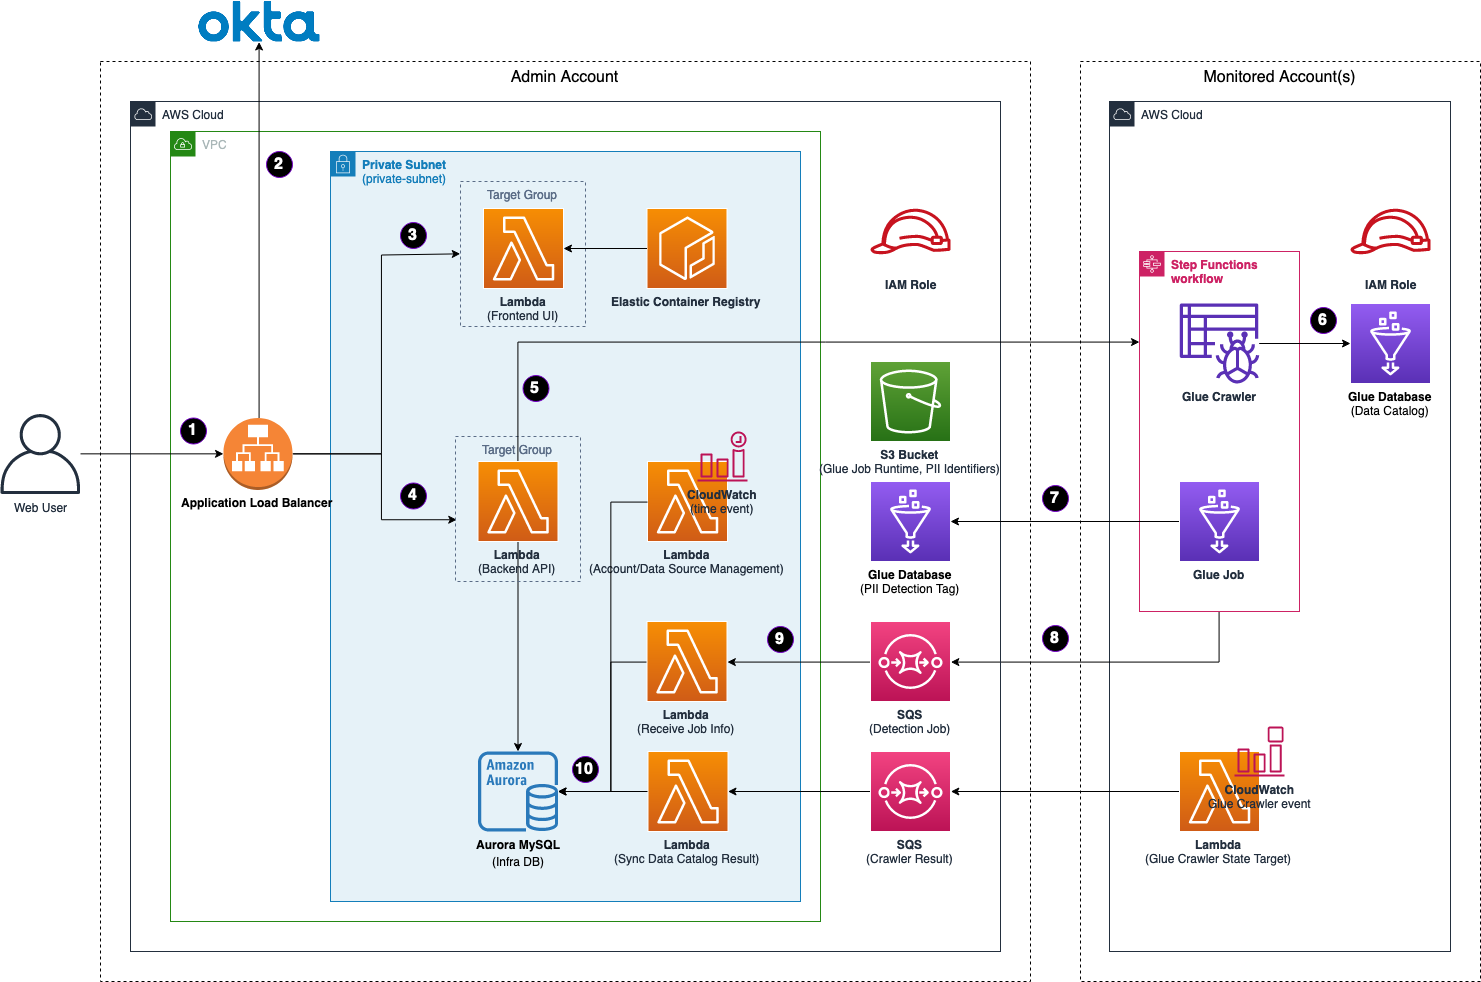
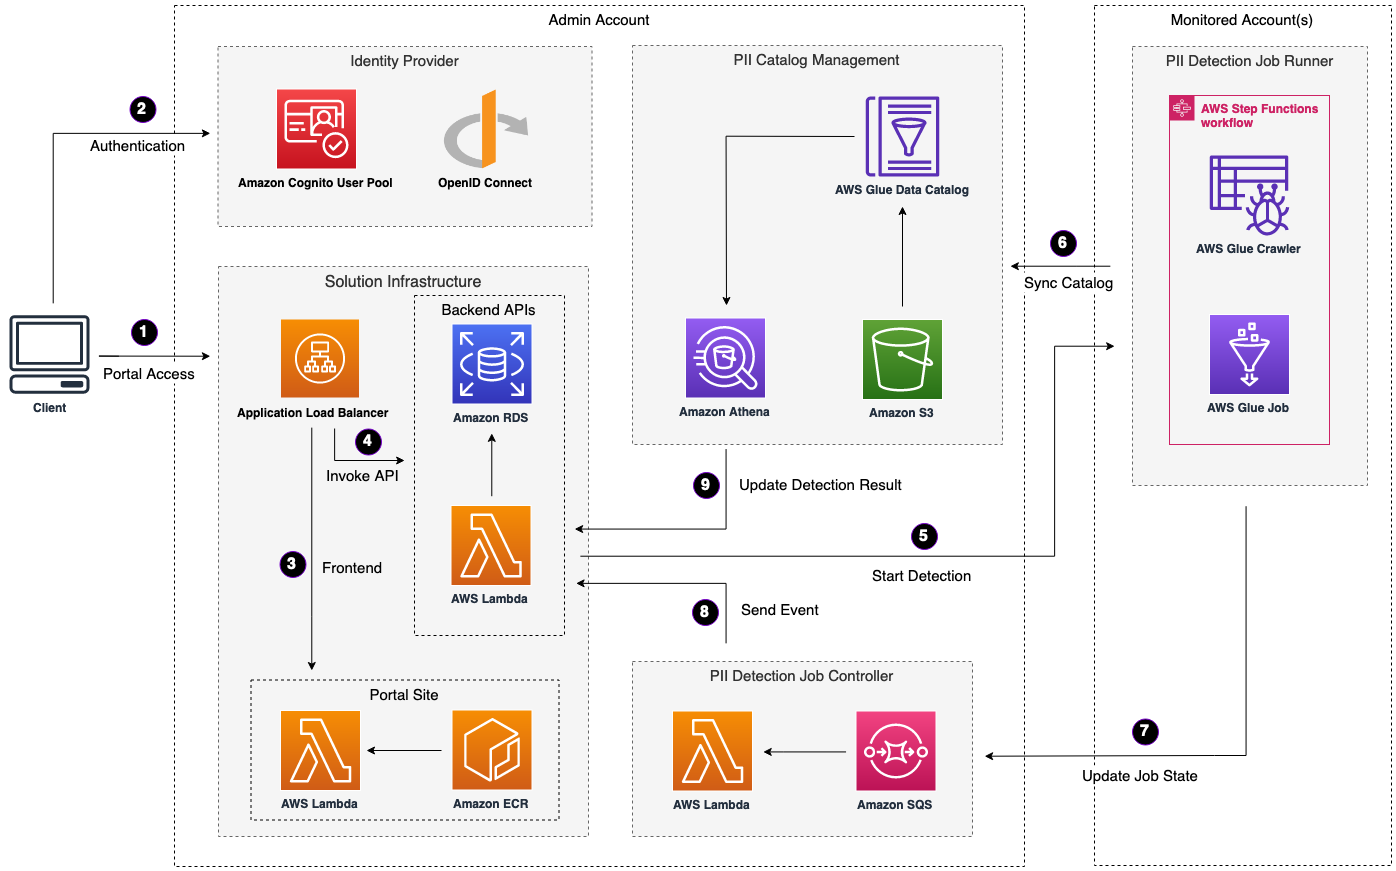
doc: add doc for architecture

diff --git a/docs/en/cost.md b/docs/en/cost.md
@@ -1,0 +1,105 @@
+Last updated at：2023/06/05
+
+The cost for main AWS account running this solution with the default settings in the Ningxia (cn-northwest-1) Region is approximately **¥901.82 CNY a month.**
+
+
+## Cost estimation
+
+ Based on typical usage patterns, we have indicated a few scenarios to provide an estimation of monthly costs. The AWS services listed in the example cost tables below are billed on **a monthly basis.**
+
+
+>The cost of running the Sensitive Data Protection solution is based on a variety of factors, such as the number and sizes of datasets, the number and complexity of data structures, and the frequency of discovery job updates. For example, running a discovery job on a large dataset with a fully scanned range will result in higher costs than running the job on smaller datasets with increased scan range and limited scan depth that are run on demand.
+
+### Base cost for Infra (in main account)
+
+|**Service**	|Usage Type	|**Usage Quantity**	|Monthly cost (CNY)	|	|
+|---	|---	|---	|---	|---	|
+|Amazon Relational Database Service for MySQL Community Edition	|CNY 0.8 per db.t3.medium Multi-AZ instance hour (or partial hour) running MySQL	|720 Hrs	|576	|Reserved	|
+|Amazon Relational Database Service Provisioned Storage	|CNY 1.5308 per GB-month of provisioned gp2 storage for Multi-AZ deployments running MySQL	|20 GB-Mo	|30.616	|On Demand	|
+|Amazon Elastic Compute Cloud NatGateway	|0.37 CNY per GB Data Processed by NAT Gateways	|30 GB-Mo	|11.1	|On Demand. Avg 80 url requests per day	|
+|0.37 CNY per NAT Gateway Hour	|720 Hrs	|266.4	|Reserved	|
+|Athena	|CNY34.34 per Terabytes for DataScannedInTB in China (Ningxia)	|0.010 Terabytes	|0.34	|On Demand	|
+|CloudWatch	|First 5GB-mo per month of logs storage is free. CNY 0.244 per GB archived per month	|0.100 GB-Mo	|0.244	|On Demand	|
+|EC2 Container Registry (ECR)	|500MB-month Free Tier, CNY 0.69 per GB-month	|0.003 GB-Mo	|0.69	|Reserved	|
+|Elastic Load Balancing - Application	|0.0 CNY per Application LoadBalancer-hour (or partial hour) under monthly free tier. CNY 0.156 per Application load balancer-hour (or partial hour)	|10 Hrs	|1.56	|On Demand	|
+|0.0 CNY per used Application load balancer capacity unit-hour (or partial hour) under monthly free tier. CNY 0.072 per LCU-hour (or partial hour)	|0.105 LCU-Hrs	|0	|On Demand	|
+|Lambda	|CNY 0 for first 400K GB-second usage of AWS Lambda - Total Compute - China (Ningxia), CNY 0.0000001135 Price per 1ms  (Ningxia)	|100,000.000 Lambda-GB-Second	|11.35	|On Demand	|
+|CNY 0 for first 1M usage of AWS Lambda - Total Requests - China (Ningxia), CNY 1.36 per million requests	|10,000 Request	|0	|On Demand	|
+|Simple Queue Service	|First 1,000,000 Amazon SQS Requests per month are free, CNY 3.33 (per Million requests)	|100,000 Requests	|3.33	|On Demand	|
+|Simple Storage Service	|First 2,000 PUTs free under free tier, CNY 0.00405 PUT, COPY, POST, LIST requests (per 1,000 requests)	|2,000 Requests	|0.0081	|On Demand	|
+|First 20,000 GETs free under free tier, CNY 0.0135 per 10,000 requests	|4,000 Requests	|0.0054	|On Demand	|
+|
+First 5 GB free under free tier, CNY 0.1755 per GB	|0.032 GB-Mo
+CNY 0.00	|0.1755	|On Demand	|
+|**Total**	|	|	|901.819	|	|
+
+### Base cost for Infra (in monitored account)
+
+|**Service**	|Usage Type	|	|
+|---	|---	|---	|
+|Glue	|3.021 CNY per DPU-Hour, billed per second, with a 10-minute minimum per crawler run 	|On Demand	|
+|3.021 CNY per Data Processing Unit-Hour for Amazon Glue ETL job	|On Demand	|
+|6.866 CNY per 1,000,000 requests for Amazon Glue Data Catalog request	|On Demand	|
+|Step Functions	|CNY 0.00 for first 4,000 state transitions, CNY 0.0002102 per state transition thereafter	|On Demand	|
+|CloudWatch	|First 5GB-mo per month of logs storage is free. CNY 0.244 per GB archived per month	|On Demand	|
+|	|	|	|
+
+The AWS services listed in the example cost tables below are billed on a monthly basis in a monitored account. Glue Crawler minimum cost is 0.5035 (CNY), the crawler will be launched in data source connection creation and PII detection job execution, below cost table includes both of the connection creation and job execution cost with the example data sources.
+
+|**Scenarios**	|Service Running Cost (CNY)	|Monthly Cost **(CNY)**	|
+|---	|---	|---	|
+|**Account 1, scan frequency monthly, scan depth 1000**
+S3 Bucket A: 10000 CSV files, 1000 rows, 10 columns, total size 1.7GiB
+S3 Bucket B: 10000 JSON files, 1000 rows, 10 fields, total size 2.5GiB
+S3 Bucket C: 1000 PARQUET files, 1000 rows, 10 fields, total size 212Mb	|Glue Crawler: 1.007
+Glue Job: 2.3161	|3.3231	|
+|**Account 2, scan frequency weekly, scan depth 1000**
+RDS Aurora MySQL A: 10 tables, 10000 rows, 10 columns, instance type: db.r5.large(8vCPUs, 64GiB RAM Network: 4,750 Mbps)
+RDS MySQL B: 10 tables, 1,000,000 rows, 10 columns, instance type: db.m5.12xlarge(48 vCPU 192 GiB RAM Network:9500 Mbps)	|Glue Crawler: 2.5175
+Glue Job: 2.8196	|5.3371	|
+|**Account 3, scan frequency daily, scan depth 1000**
+S3 Bucket A: 10000 CSV files, 1000 rows, 10 columns, total size 1.7GiB
+S3 Bucket B: 10000 JSON files, 1000 rows, 10 fields, total size 2.5GiB
+S3 Bucket C: 1000 PARQUET files, 1000 rows, 10 fields, total size 212Mb
+RDS Aurora MySQL A: 10 tables, 10000 rows, 10 columns, instance type: db.r5.large(8vCPUs, 64GiB RAM Network: 4,750 Mbps)	|Glue Crawler: 15.6085
+Glue Job: 70.9935	|86.602	|
+|Total monthly cost in the above three accounts with different frequency (CNY)	|	|95.2622	|
+
+
+We recommend using the [AWS Cost Explorer](http://aws.amazon.com/aws-cost-management/aws-cost-explorer/) feature in the solution to help manage costs. Prices are subject to change. For full details, refer to the pricing webpage for each AWS service used in this solution. 
+
+
+### US East-1 Region Cost
+
+|**Service**	|Usage Type	|**Usage Quantity**	|Monthly cost (USD)	|	|
+|---	|---	|---	|---	|---	|
+|Amazon Relational Database Service for MySQL Community Edition	|USD 0.136 per db.t3.medium Multi-AZ instance hour (or partial hour) running MySQL	|720 Hrs	|576	|Reserved	|
+|Amazon Relational Database Service Provisioned Storage	|USD 0.23 per GB-month of provisioned gp2 storage for Multi-AZ deployments running MySQL	|20 GB-Mo	|30.616	|On Demand	|
+|Amazon Elastic Compute Cloud NatGateway	|USD 0.045 per GB Data Processed by NAT Gateways	|30 GB-Mo	|11.1	|On Demand. Avg 80 url requests per day	|
+|USD 0.045 per NAT Gateway Hour	|720 Hrs	|266.4	|Reserved	|
+|Athena	|CNY34.34 per Terabytes for DataScannedInTB in China (Ningxia)	|0.010 Terabytes	|0.34	|On Demand	|
+|CloudWatch	|First 5GB-mo per month of logs storage is free. CNY 0.244 per GB archived per month	|0.100 GB-Mo	|0.244	|On Demand	|
+|EC2 Container Registry (ECR)	|500MB-month Free Tier, CNY 0.69 per GB-month	|0.003 GB-Mo	|0.69	|Reserved	|
+|Elastic Load Balancing - Application	|0.0 CNY per Application LoadBalancer-hour (or partial hour) under monthly free tier. CNY 0.156 per Application load balancer-hour (or partial hour)	|10 Hrs	|1.56	|On Demand	|
+|0.0 CNY per used Application load balancer capacity unit-hour (or partial hour) under monthly free tier. CNY 0.072 per LCU-hour (or partial hour)	|0.105 LCU-Hrs	|0	|On Demand	|
+|Lambda	|CNY 0 for first 400K GB-second usage of AWS Lambda - Total Compute - China (Ningxia), CNY 0.0000001135 Price per 1ms  (Ningxia)	|100,000.000 Lambda-GB-Second	|11.35	|On Demand	|
+|CNY 0 for first 1M usage of AWS Lambda - Total Requests - China (Ningxia), CNY 1.36 per million requests	|10,000 Request	|0	|On Demand	|
+|Simple Queue Service	|First 1,000,000 Amazon SQS Requests per month are free, CNY 3.33 (per Million requests)	|100,000 Requests	|3.33	|On Demand	|
+|Simple Storage Service	|First 2,000 PUTs free under free tier, CNY 0.00405 PUT, COPY, POST, LIST requests (per 1,000 requests)	|2,000 Requests	|0.0081	|On Demand	|
+|First 20,000 GETs free under free tier, CNY 0.0135 per 10,000 requests	|4,000 Requests	|0.0054	|On Demand	|
+|
+First 5 GB free under free tier, CNY 0.1755 per GB	|0.032 GB-Mo
+CNY 0.00	|0.1755	|On Demand	|
+|**Total**	|	|	|901.819	|	|
+
+
+
+|**Service**	|Usage Type	|	|
+|---	|---	|---	|
+|Glue	|$0.44 per DPU-Hour, billed per second, with a 10-minute minimum per crawler run 	|On Demand	|
+|$0.44 per Data Processing Unit-Hour for Amazon Glue ETL job	|On Demand	|
+|$1 per 1,000,000 requests for Amazon Glue Data Catalog request	|On Demand	|
+|Step Functions	|US 0.00 for first 4,000 state transitions, CNY 0.0002102 per state transition thereafter	|On Demand	|
+|CloudWatch	|First 5GB-mo per month of logs storage is free. CNY 0.244 per GB archived per month	|On Demand	|
+|	|	|	|
+

diff --git a/docs/en/architecture-overview/architecture.md b/docs/en/architecture-overview/architecture.md
@@ -4,15 +4,14 @@ Deploying this solution with the default parameters builds the following environ
 **Sensitive Data Protection on AWS architecture**
 
 1. The [Application Load Balancer](https://aws.amazon.com/alb/) distributes the solution's frontend web UI assets hosted in [AWS Lambda](https://aws.amazon.com/lambda/). 
-2. Okta (or other Identity provider, IdP) provides user authentication. 
+2. Identity provider for user authentication. 
 3. The AWS Lambda function is packaged as Docker images and stored in the [Amazon ECR (Elastic Container Registry)](https://aws.amazon.com/ecr/). 
 4. The backend Lambda function is a target for the Application Load Balancer. 
 5. The backend Lambda function invokes [AWS Step Functions](https://aws.amazon.com/step-functions/) in monitored accounts for sensitive data detection. 
-6. The [AWS Glue](https://aws.amazon.com/glue/) Crawler runs to take inventory of the data sources and is stored in the Glue Database as metadata tables. 
-7. The Glue job tags sensitive data detection results to the Glue database. 
-8. The Step Functions send [Amazon SQS](https://aws.amazon.com/sqs/) messages to the detection job queue after the Glue job has run. 
-9. The Amazon SQS queue serves as an event source for the Lambda function. 
-10. The Lambda function stores detection results to an Aurora MySQL instance in [Amazon RDS](https://aws.amazon.com/rds/).
+6. In [AWS Step Functions](https://aws.amazon.com/step-functions/) workflow, the [AWS Glue](https://aws.amazon.com/glue/) Crawler runs to take inventory of the data sources and is stored in the Glue Database as metadata tables.
+7. The Step Functions send [Amazon SQS](https://aws.amazon.com/sqs/) messages to the detection job queue after the Glue job has run. 
+8. Lambda function processs messages from Amazon SQS.
+9. The [Amazon Athena](https://aws.amazon.com/athena/) query detection results and save to MySQL instance in [Amazon RDS](https://aws.amazon.com/rds/).
 
 The solution uses the AWS Glue service as a core for building data catalog in the monitored account(s) and for invoking the Glue Job to detect sensitive data Personal Identifiable Information (PII). The distributed Glue job runs in each monitored account, and the admin account contains a centralized data catalog of data sources across AWS accounts. This is an implementation of the Data Mesh concept recommended by AWS.
 

diff --git a/docs/en/user-guide/appendix-organization.md b/docs/en/user-guide/appendix-organization.md
@@ -1,1 +1,13 @@
-# Appendix: About Organization
+You can use [AWS Organizations](https://aws.amazon.com/organizations/) to manage automated deployment of monitored accounts. In AWS CloudFormation, you can configure [StackSet](https://docs.aws.amazon.com/AWSCloudFormation/latest/UserGuide/what-is-cfnstacksets.html) to deploy the Agent stack in the target Organizational Unit (OU). After you have configured the deployment, the Agent stack will be automatically deployed to the specified region of the account under the OU. Finally, you need to deploy the IT stack to the Organizations management account or the corresponding CloudFormation delegated account under Organizations, then, you can add member accounts [via Organizations](../user-guide/data-source.md#add-aws-accounts-via-organization).
+
+## Concepts
+![orgs-ctrl](docs/../../images/orgs-ctrl.png)
+
+1. Deploy Admin CloudFormation stack in adminaccount
+2. Register delegated administrator in StackSets in Organization’s management account. [Register a delegated administrator](https://docs.aws.amazon.com/AWSCloudFormation/latest/UserGuide/stacksets-orgs-delegated-admin.html)
+3. Deploy IT CloudFormation Stack
+4. Create role for SDPS Admin API
+5. Create StackSet for Agent CloudFormation Stack
+6. Deploy to Organization/OU(s)
+7. Add member account [via Organizations](../user-guide/data-source.md#add-aws-accounts-via-organization)
+8. Retrieve deployment stacks and member accounts

diff --git a/docs/en/regions.md b/docs/en/regions.md
@@ -1,0 +1,31 @@
+# Regional Deployment
+
+This solution uses services which may not be currently available in all AWS Regions. Launch this solution in an AWS Region where required services are available. For the most current availability by Region, refer to the AWS Regional Services List.
+
+## Supported regions for deployment in AWS Global Regions
+
+| Region Name | Region ID |
+|----------|-------|
+| US East (N. Virginia) Region | us-east-1
+| US East (Ohio) Region | us-east-2
+| US West (N. California) Region | us-west-1
+| US West (Oregon) Region | us-west-2
+| Asia Pacific (Mumbai) Region | ap-south-1
+| Asia Pacific (Tokyo) Region | ap-northeast-1
+| Asia Pacific (Seoul) Region | ap-northeast-2
+| Asia Pacific (Singapore) Region | ap-southeast-1
+| Asia Pacific (Sydney) Region | ap-southeast-2
+| Canada (Central) Region | ca-central-1
+| Europe (Ireland) Region | eu-west-1
+| Europe (London) Region | eu-west-2
+| Europe (Paris) Region | eu-west-3
+| Europe (Frankfurt) Region | eu-central-1
+| South America (Sao Paulo) Region | sa-east-1
+
+
+## Supported regions for deployment in AWS China Regions
+
+| Region Name | Region ID |
+|----------|-------|
+| AWS China (Beijing) Region operated by Sinnet | cn-north-1
+| AWS China (Ningxia) Region operated by NWCD | cn-northwest-1

diff --git a/docs/en/security.md b/docs/en/security.md
@@ -1,0 +1,6 @@
+# Security Information 
+When you build solutions on Amazon Web Services, security responsibilities are shared between you and Amazon Cloud. This [Shared Responsibility Model](https://aws.amazon.com/compliance/shared-responsibility-model/) reduces your operational burden due to the Amazon Web Services operations, management, and control components, including host operations The physical security of the system, the virtualization layer, and the facility where the service runs. For more information on Amazon Web Services, visit Amazon Web Services [Cloud Security](http://aws.amazon.com/security/).
+
+## IAM roles
+
+AWS Identity and Access Management (IAM) roles allow customers to assign fine-grained access policies and permissions to services and users on AWS. This solution creates IAM roles that grant access between components of the solution.
